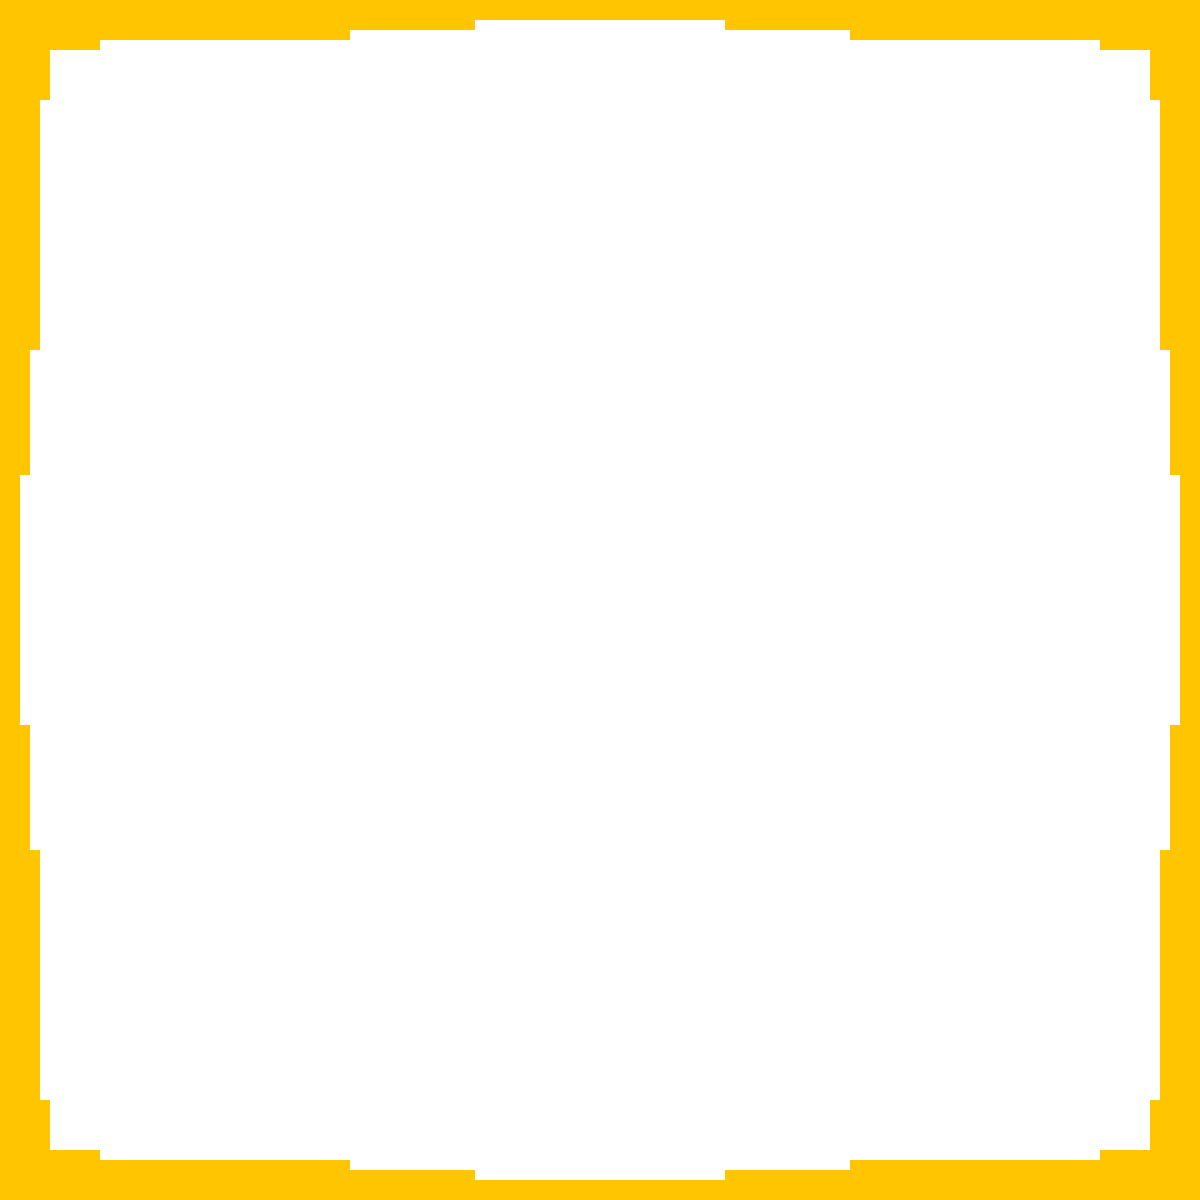
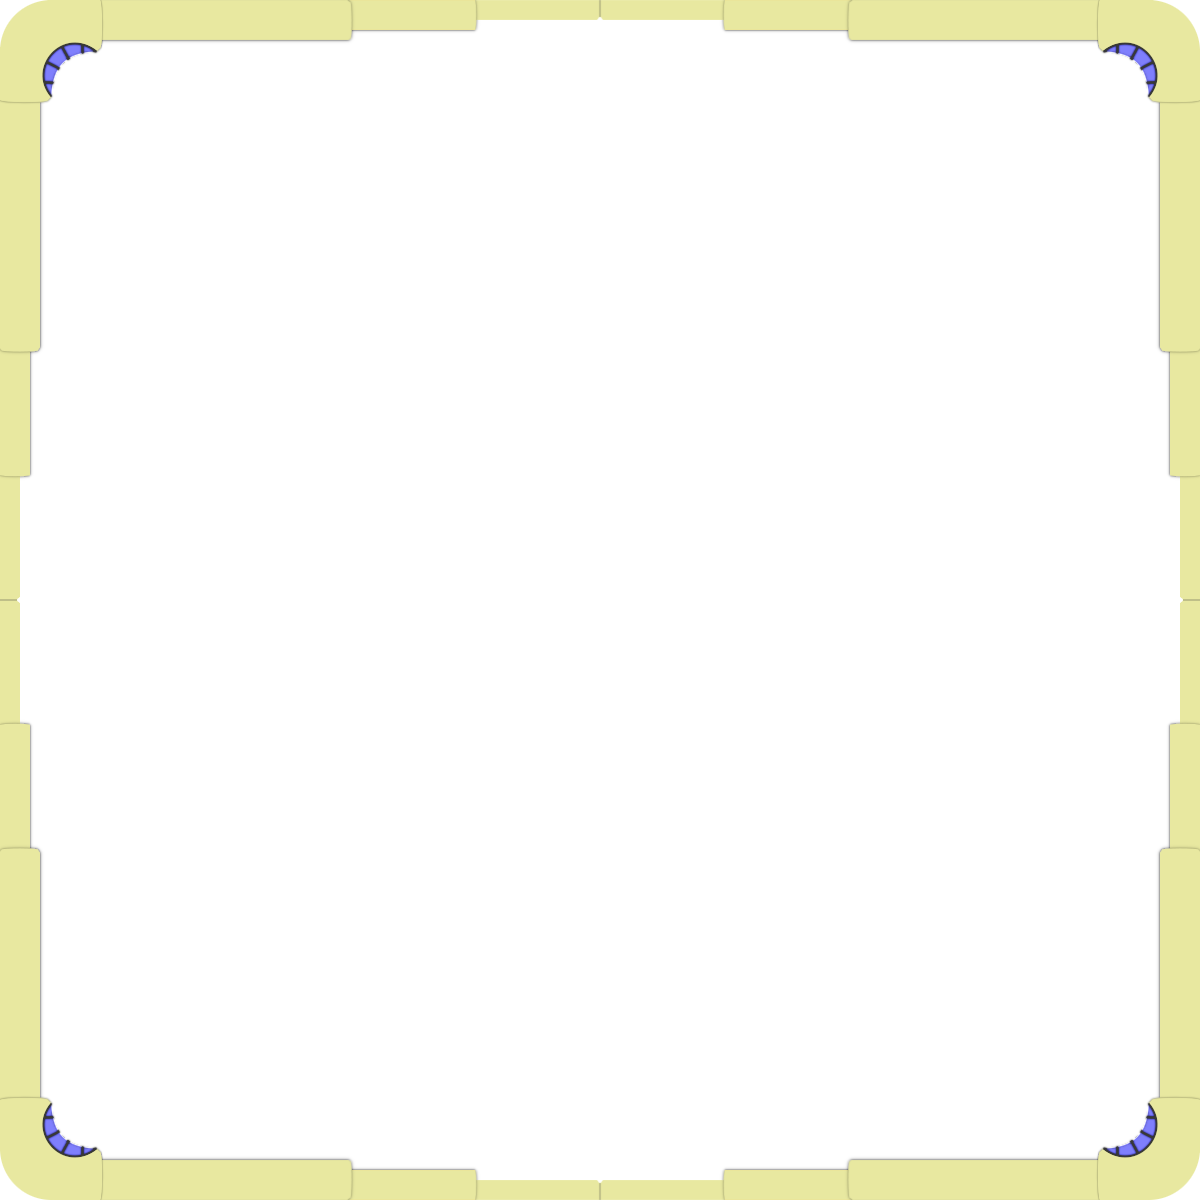
added more art for projects page

Changed region(s): [[0.0, 0.0, 1.0, 1.0]]

diff --git a/src/output.css b/src/output.css
@@ -755,6 +755,18 @@ video {
   z-index: 50;
 }
 
+.col-span-2 {
+  grid-column: span 2 / span 2;
+}
+
+.col-span-1 {
+  grid-column: span 1 / span 1;
+}
+
+.col-span-5 {
+  grid-column: span 5 / span 5;
+}
+
 .mx-\[2\%\] {
   margin-left: 2%;
   margin-right: 2%;
@@ -778,6 +790,11 @@ video {
 .my-\[4\%\] {
   margin-top: 4%;
   margin-bottom: 4%;
+}
+
+.mx-\[\%\] {
+  margin-left: %;
+  margin-right: %;
 }
 
 .-ml-\[1\%\] {
@@ -884,6 +901,34 @@ video {
   margin-top: 5.5%;
 }
 
+.mr-\[5\%\] {
+  margin-right: 5%;
+}
+
+.ml-\[\] {
+  margin-left: ;
+}
+
+.ml-\[1\%\] {
+  margin-left: 1%;
+}
+
+.ml-\[2\%\] {
+  margin-left: 2%;
+}
+
+.ml-\[3\%\] {
+  margin-left: 3%;
+}
+
+.mt-\[\] {
+  margin-top: ;
+}
+
+.mt-\[5\%\] {
+  margin-top: 5%;
+}
+
 .inline {
   display: inline;
 }
@@ -894,6 +939,10 @@ video {
 
 .inline-flex {
   display: inline-flex;
+}
+
+.grid {
+  display: grid;
 }
 
 .hidden {
@@ -942,10 +991,6 @@ video {
 
 .h-\[90\%\] {
   height: 90%;
-}
-
-.h-\[95\%\] {
-  height: 95%;
 }
 
 .h-fit {
@@ -1074,10 +1119,6 @@ video {
   width: 90%;
 }
 
-.w-\[95\%\] {
-  width: 95%;
-}
-
 .w-fit {
   width: -webkit-fit-content;
   width: -moz-fit-content;
@@ -1090,6 +1131,14 @@ video {
 
 .w-screen {
   width: 100vw;
+}
+
+.w-\[80\%\] {
+  width: 80%;
+}
+
+.w-\[50\%\] {
+  width: 50%;
 }
 
 .flex-shrink {
@@ -1224,6 +1273,19 @@ video {
   list-style-type: none;
 }
 
+.columns-2 {
+  -webkit-columns: 2;
+          columns: 2;
+}
+
+.grid-cols-2 {
+  grid-template-columns: repeat(2, minmax(0, 1fr));
+}
+
+.grid-rows-5 {
+  grid-template-rows: repeat(5, minmax(0, 1fr));
+}
+
 .flex-row {
   flex-direction: row;
 }
@@ -1240,16 +1302,32 @@ video {
   align-items: center;
 }
 
-.justify-end {
-  justify-content: flex-end;
-}
-
 .justify-center {
   justify-content: center;
 }
 
 .justify-between {
   justify-content: space-between;
+}
+
+.gap-1 {
+  gap: 0.25rem;
+}
+
+.gap-2 {
+  gap: 0.5rem;
+}
+
+.gap-5 {
+  gap: 1.25rem;
+}
+
+.gap-\[\] {
+  gap: ;
+}
+
+.gap-\[5\%\] {
+  gap: 5%;
 }
 
 .space-x-0 > :not([hidden]) ~ :not([hidden]) {
@@ -1276,10 +1354,10 @@ video {
   margin-bottom: calc(0.75rem * var(--tw-space-y-reverse));
 }
 
-.space-y-\[5vw\] > :not([hidden]) ~ :not([hidden]) {
+.space-y-4 > :not([hidden]) ~ :not([hidden]) {
   --tw-space-y-reverse: 0;
-  margin-top: calc(5vw * calc(1 - var(--tw-space-y-reverse)));
-  margin-bottom: calc(5vw * var(--tw-space-y-reverse));
+  margin-top: calc(1rem * calc(1 - var(--tw-space-y-reverse)));
+  margin-bottom: calc(1rem * var(--tw-space-y-reverse));
 }
 
 .overflow-auto {
@@ -1304,6 +1382,10 @@ video {
 
 .rounded-3xl {
   border-radius: 1.5rem;
+}
+
+.rounded-\[50px\] {
+  border-radius: 50px;
 }
 
 .rounded-full {
@@ -1351,6 +1433,11 @@ video {
 .bg-orange-400 {
   --tw-bg-opacity: 1;
   background-color: rgb(251 146 60 / var(--tw-bg-opacity));
+}
+
+.bg-red-400 {
+  --tw-bg-opacity: 1;
+  background-color: rgb(248 113 113 / var(--tw-bg-opacity));
 }
 
 .bg-slate-600 {
@@ -1420,12 +1507,16 @@ video {
   padding-bottom: 2%;
 }
 
-.pb-\[25\%\] {
-  padding-bottom: 25%;
+.pb-\[\] {
+  padding-bottom: ;
 }
 
-.pt-\[20\%\] {
-  padding-top: 20%;
+.pb-\[5\%\] {
+  padding-bottom: 5%;
+}
+
+.pb-\[10\%\] {
+  padding-bottom: 10%;
 }
 
 .text-center {
@@ -1463,8 +1554,41 @@ video {
   font-size: 2vw;
 }
 
+.text-\[4vw\] {
+  font-size: 4vw;
+}
+
 .text-\[5vw\] {
   font-size: 5vw;
+}
+
+.text-lg {
+  font-size: 1.125rem;
+  line-height: 1.75rem;
+}
+
+.text-\[1vh\] {
+  font-size: 1vh;
+}
+
+.text-\[1vw\] {
+  font-size: 1vw;
+}
+
+.text-\[3vw\] {
+  font-size: 3vw;
+}
+
+.text-\[3vh\] {
+  font-size: 3vh;
+}
+
+.text-\[2\.5vw\] {
+  font-size: 2.5vw;
+}
+
+.text-\[2\.4vw\] {
+  font-size: 2.4vw;
 }
 
 .leading-snug {
@@ -1484,6 +1608,15 @@ video {
 .text-green-400 {
   --tw-text-opacity: 1;
   color: rgb(74 222 128 / var(--tw-text-opacity));
+}
+
+.text-white {
+  --tw-text-opacity: 1;
+  color: rgb(255 255 255 / var(--tw-text-opacity));
+}
+
+.text-\[1v\] {
+  color: 1v;
 }
 
 .placeholder-green-400::-webkit-input-placeholder {
@@ -1667,6 +1800,10 @@ code {
 
 .details-border {
   border-image-source: url(./images/proj_border.png);
+}
+
+.project-nameplate-border {
+  border-image-source: url(./images/proj_nameplate_border.png);
 }
 
 .trivision-border {
@@ -1855,11 +1992,6 @@ code {
 .after\:rounded-xl::after {
   content: var(--tw-content);
   border-radius: 0.75rem;
-}
-
-.hover\:bg-green-400:hover {
-  --tw-bg-opacity: 1;
-  background-color: rgb(74 222 128 / var(--tw-bg-opacity));
 }
 
 .active\:right-\[10\.45\%\]:active {

diff --git a/src/components/Projects/index.tsx b/src/components/Projects/index.tsx
@@ -10,6 +10,7 @@ import {
   useAnimation,
 } from "framer-motion";
 import ProjectDetails from "./ProjectDetails";
+import namePlateBorder from "../../images/proj_nameplate_border.png";
 
 interface Project {
   name: string;
@@ -137,20 +138,30 @@ const ProjectRight = ({ data }: { data: Project[] }) => {
 
   return (
     <div className="flex w-full mx-[3%] mt-[2%] mb-[5%] overflow-auto scrollbar-hide bg-black">
-      <div className="flex justify-end w-full h-full">
-        <ul className="flex-col list-none space-y-[5vw]">
+      <div className="w-full mt-[5%] mr-[1%] ml-[3%] bg-blue-400">
+        <ul className="flex-col columns-2 w-full list-none space-y-4">
           {data.map((project, index) => {
             return (
-              <li key={project.name} className="cursor-pointer bg-orange-400">
-                <p
-                  className="text-[5vw] hover:bg-green-400"
-                  onMouseEnter={() => handleMouseEnter(index)}
-                  onMouseLeave={handleMouseLeave}
-                  onClick={() => handleDetailsDisplay(true, index)}
-                >
-                  <span>{project.name}</span>
-                </p>
-              </li>
+              <>
+                <div className="relative h-fit z-10 bg-red-400">
+                  <div className="project-nameplate-border border-ws pointer-events-none">
+                    <img src={namePlateBorder} className="w-[75%] invisible" />
+                  </div>
+                  <li
+                    key={project.name}
+                    className="absolute top-1/2 left-1/2 -translate-x-1/2 -translate-y-1/2 w-full cursor-pointer -z-20 bg-orange-400"
+                  >
+                    <p
+                      className="text-[2.4vw] text-center text-white"
+                      onMouseEnter={() => handleMouseEnter(index)}
+                      onMouseLeave={handleMouseLeave}
+                      onClick={() => handleDetailsDisplay(true, index)}
+                    >
+                      <span>{project.name}</span>
+                    </p>
+                  </li>
+                </div>
+              </>
             );
           })}
         </ul>

diff --git a/src/components/Projects/ProjectDetails.tsx b/src/components/Projects/ProjectDetails.tsx
@@ -109,13 +109,12 @@ const ProjectDetails = (props: DetailsProps) => {
                 <div
                   key={i}
                   ref={item[0]}
-                  className={`${item[1]} bg-black absolute top-0 left-0 h-full w-full px-[10%] py-[10%] text-[#ffffff] overflow-scroll scrollbar-hide`}
+                  className={`${item[1]} bg-black absolute top-0 left-0 h-full w-full px-[10%] py-[10%] text-[#ffffff] overflow-scroll scrollbar-hide rounded-[50px]`}
                   style={{
                     textShadow: "0px 0px 1px #FFFFFF, 0px 0px 5px #FFFFFF",
                     backdropFilter: "blur(3px)",
                   }}
                 >
-                  {/* <div className="details-border border-ws absolute flex flex-grow top-0 left-0 w-full h-full pointer-events-none z-50" /> */}
                   <div className="flex w-full justify-between items-center">
                     <h1 className="text-[5vw] pb-[2%] mr-[1%]">{props.name}</h1>
                     <div className="flex flex-row h-0 space-x-2 ml-[5%]">

diff --git a/src/input.css b/src/input.css
@@ -90,6 +90,10 @@ code {
   border-image-source: url(./images/proj_border.png);
 }
 
+.project-nameplate-border {
+    border-image-source: url(./images/proj_nameplate_border.png);
+}
+
 .trivision-border {
   border-image-source: url(./images/trivision_frame.png);
   border-image-outset: 1.6vw;
